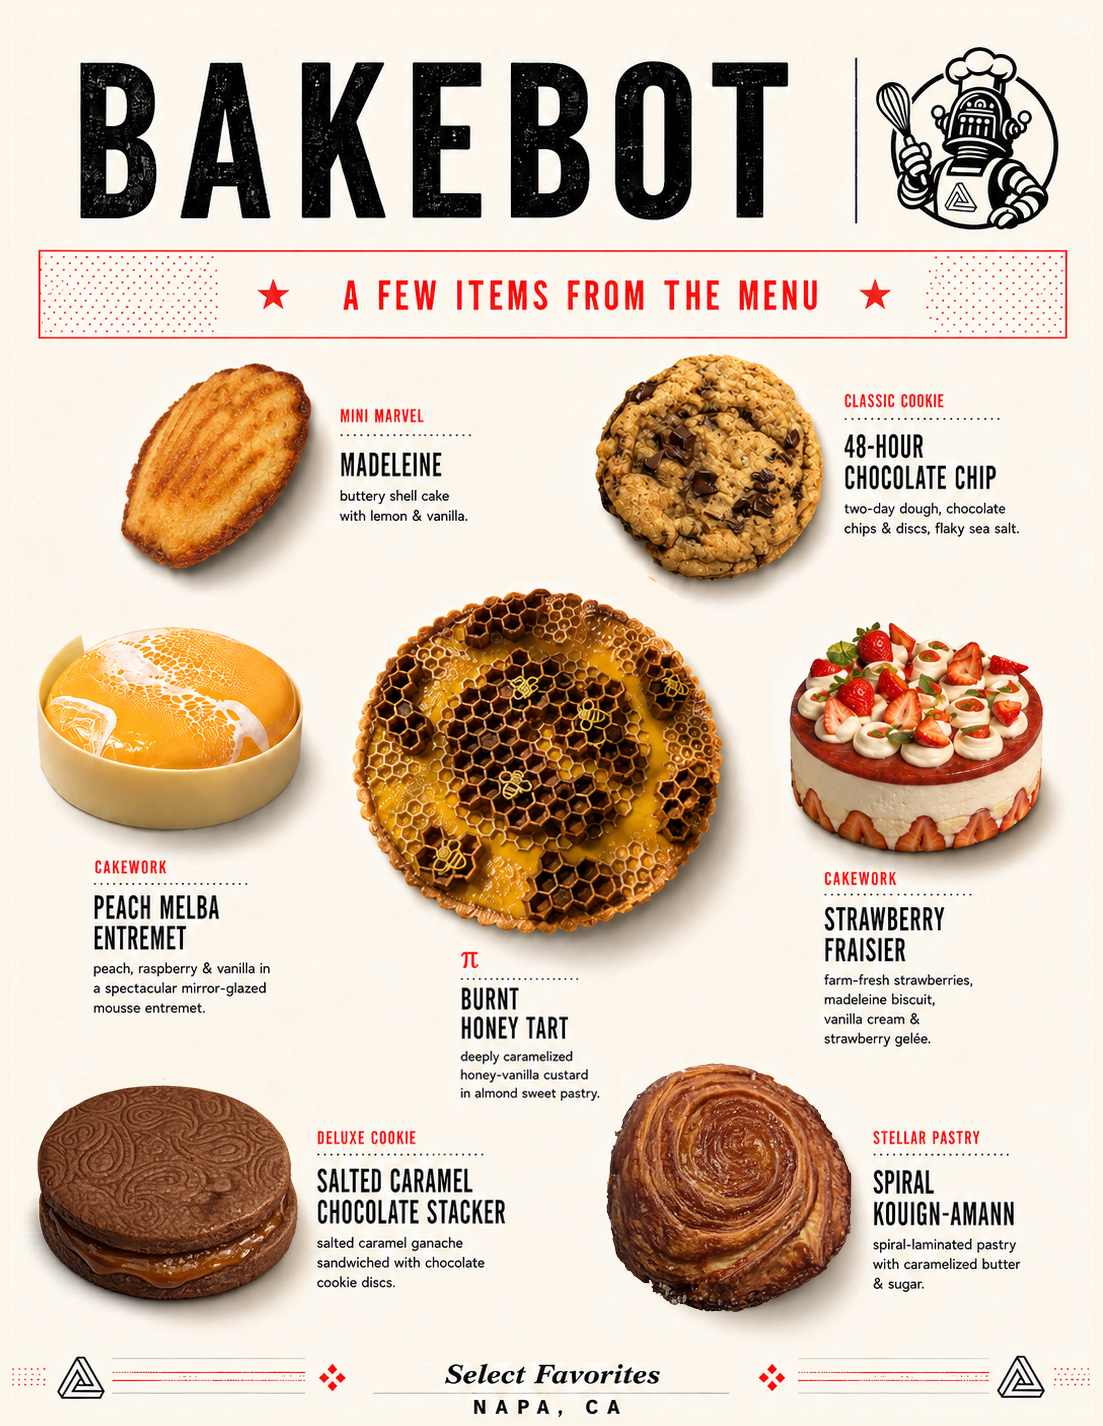
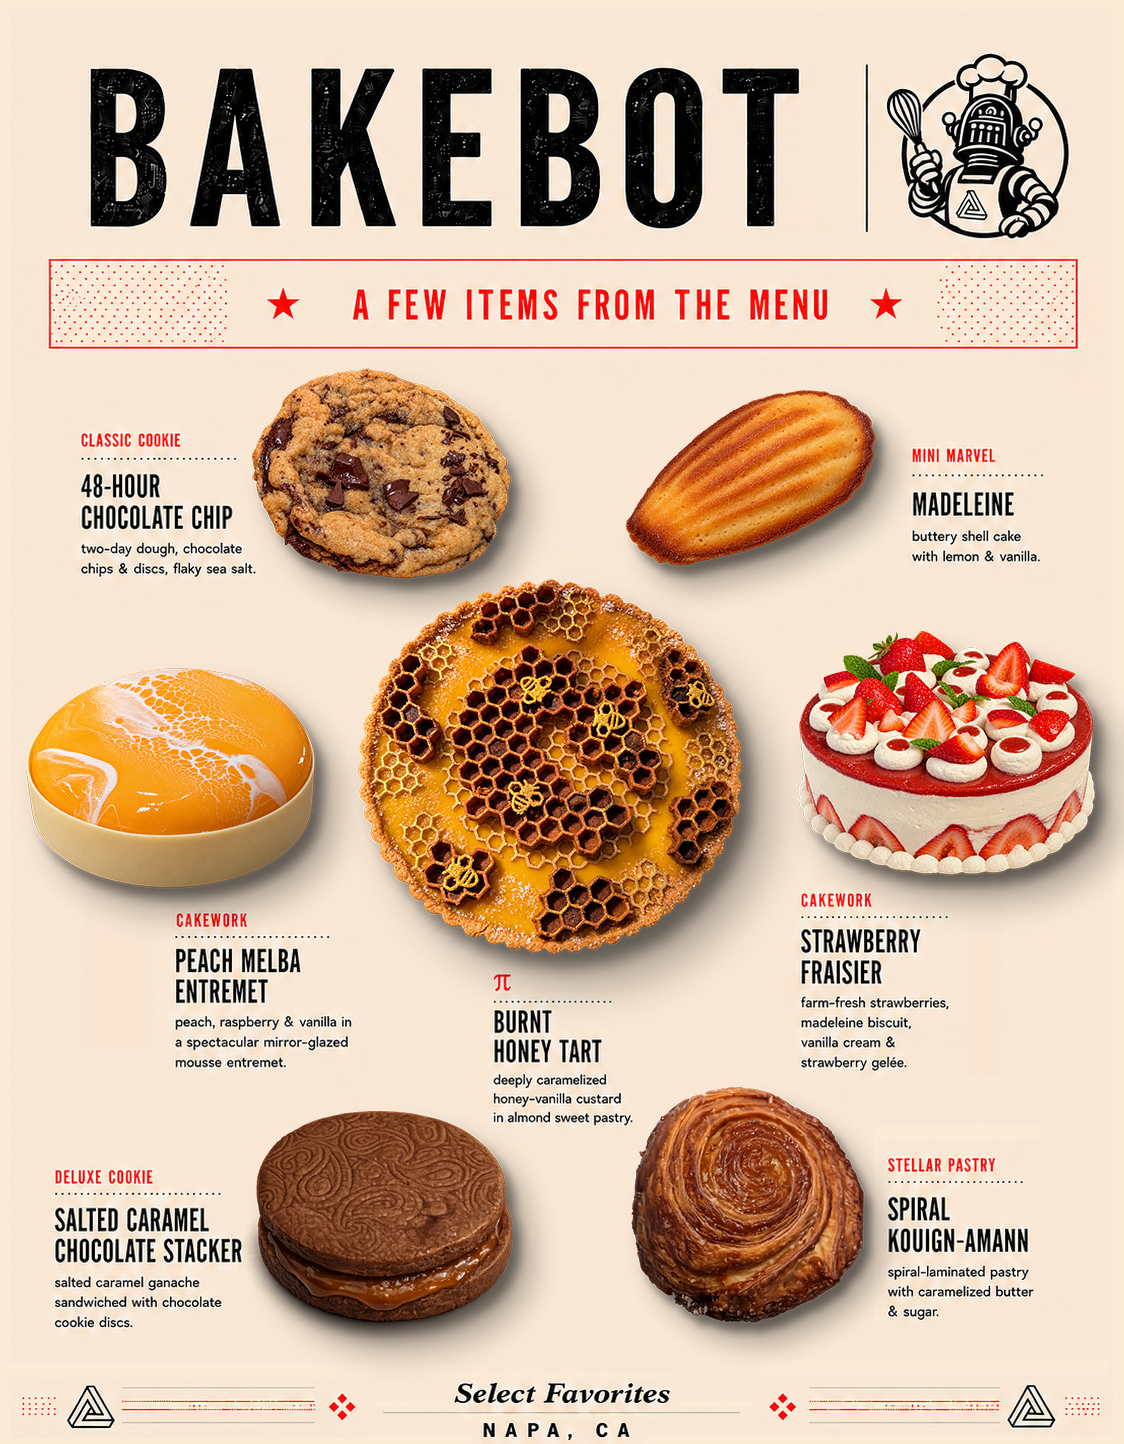
v1.1 of the menu

diff --git a/styles.css b/styles.css
@@ -1,6 +1,6 @@
 :root {
   color-scheme: light;
-  --page-bg: #f4f0e7;
+  --page-bg: #f8e8d6;
   --ink: #111111;
 }
 
@@ -43,6 +43,7 @@ body {
   display: block;
   width: 100%;
   height: auto;
+  border: solid 2px #c12a1b;
 }
 
 .site-footer {
